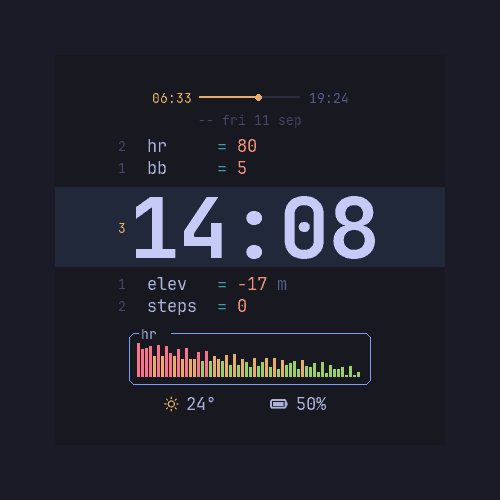
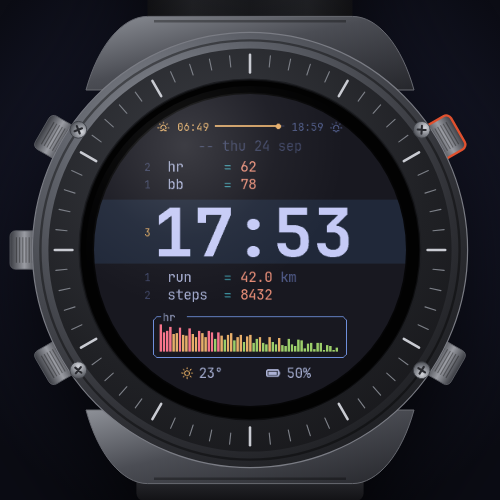
Update the store listing text and cover for 1.3.0

diff --git a/docs/store-listing.md b/docs/store-listing.md
@@ -22,31 +22,31 @@ A watch face in the style of a tiling Linux desktop. Your data reads like code, 
 
 Two layouts, switchable at any time:
 
-- Neovim: your values as code rows, for example "hr = 54", around a highlighted cursor line that holds the time. A heart rate graph in a box at the bottom.
-- Waybar: a bar across the top with the weekday as workspace numbers, the date, the temperature and the watch battery. The bottom edge of the bar fills from sunrise to sunset, and a dot marks the time of day.
+- Neovim: your values as code rows, "hr = 54", around a highlighted cursor line that holds the time. A graph in a box at the bottom.
+- Waybar: a bar across the top with the weekday as workspace numbers, the date, the temperature and the battery.
 
 What you get:
 
-- 22 colour schemes, among them Tokyo Night, Catppuccin, Gruvbox, Everforest and Nord.
-- Four rows you set yourself: heart rate, body battery, elevation, steps, temperature, watch battery, floors or stress.
-- A sunrise to sunset line that shows how much daylight is left.
-- A heart rate graph of the last hours.
-- An always-on mode with dim digits that move every minute, to protect the screen.
-- Settings on the watch. Hold MENU on the face and open the settings of the face. You do not need the phone.
+- 22 colour schemes: Tokyo Night, Catppuccin, Gruvbox, Everforest, Nord and more.
+- Four rows from 31 values: heart rate, body battery, elevation, steps, temperature, watch battery, floors, stress, calories, pulse ox, respiration, sleep score, recovery, VO2 max, weekly run and bike distance, pressure, race time predictions, humidity, wind and rain chance.
+- A top bar you set: daylight from sunrise to sunset, a goal, body battery, stress, sleep score or the day.
+- A graph of the last hours, from heart rate, body battery, elevation, pressure, stress, pulse ox or temperature.
+- Two text sizes. Celsius or Fahrenheit, kilometres or miles.
+- Always-on mode with dim digits that move every minute.
+- Settings on the watch. Hold MENU on the face and open its settings. No phone needed.
 
-Before you rate it, please read this:
+Good to know: the temperature, the weather values and the sunrise and sunset times come from Garmin's weather data, so they stay empty until your phone syncs. VO2 max, the weekly distances, the race times and the sleep score stay empty until the watch has enough data for them. Elevation and pressure need a watch with a barometer.
 
-- The temperature and the sunrise and sunset times come from Garmin's weather data. The watch gets that from your phone, so these fields stay empty until the first sync after you install the face.
-- Elevation comes from the barometer of the watch. On watches without one, the row shows two dashes.
-- Body battery, stress and floors show data only if your watch records them.
+Privacy: the face reads your watch data only to draw the screen. Nothing is stored or sent anywhere.
 
-Privacy: the face reads heart rate history, body battery, steps, altitude and the last known position of the watch, and uses them only to draw the screen. Nothing is stored or sent anywhere.
+Free and open source: github.com/jasasonc/omawatch
 
-OmaWatch is not connected to Garmin. It is also not connected to the Omarchy desktop project, it only follows its look.
+OmaWatch is not connected to Garmin, and not connected to the Omarchy project. It only follows its look.
 
-## What's new (version 1.0.0)
+## What's new (version 1.3.0)
 
-First release.
+See `marketing/` for the text of the last release. Version 1.3.0 went live on
+2026-09-24.
 
 ## Screenshots to upload
 
